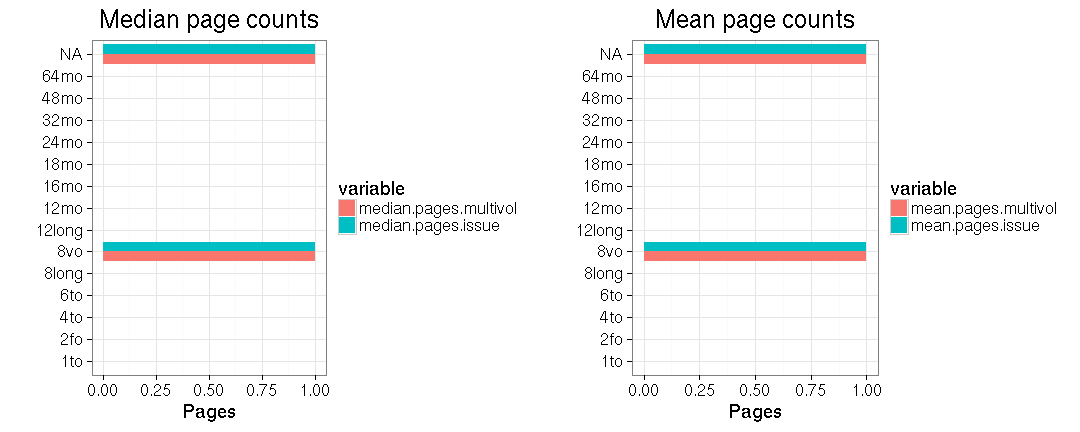
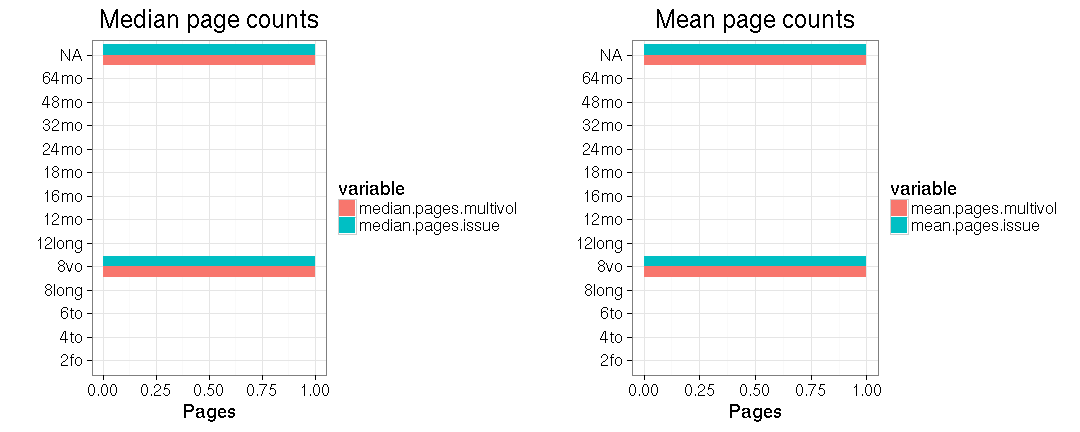
Rmd update

diff --git a/antagomir/pagecount.md b/antagomir/pagecount.md
@@ -1,7 +1,7 @@
 ---
 title: "Pagecount preprocessing summary"
 author: "Lahti, Marjanen, Roivainen, Tolonen"
-date: "2016-06-28"
+date: "2016-06-29"
 output: markdown_document
 ---
 
@@ -12,7 +12,7 @@ output: markdown_document
 
   * Page count missing and estimated for 2031 documents (0.5%).
 
-  * Page count missing and could not be estimated for 147340 documents
+  * Page count missing and could not be estimated for 147340 documents (38.2%).
 
   * Page count updated for 0 documents.
   
@@ -39,8 +39,8 @@ Multi-volume documents average page counts are given per volume.
 
 |doc.dimension |mean.pages.singlevol |median.pages.singlevol | n.singlevol| mean.pages.multivol| median.pages.multivol| n.multivol| mean.pages.issue| median.pages.issue| n.issue|
 |:-------------|:--------------------|:----------------------|-----------:|-------------------:|---------------------:|----------:|----------------:|------------------:|-------:|
-|2fo           |NA                   |NA                     |        1858|                  NA|                    NA|         NA|               NA|                 NA|      94|
-|4to           |NA                   |NA                     |       32051|                  NA|                    NA|         NA|               NA|                 NA|   32064|
+|2fo           |NA                   |NA                     |        1858|                  NA|                    NA|         NA|               NA|                 NA|      NA|
+|4to           |NA                   |NA                     |       32051|                  NA|                    NA|         NA|               NA|                 NA|       7|
 |6to           |NA                   |NA                     |          28|                  NA|                    NA|         NA|               NA|                 NA|       1|
 |8long         |NA                   |NA                     |          14|                  NA|                    NA|         NA|               NA|                 NA|      NA|
 |8vo           |NA                   |NA                     |       25060|                   1|                     1|         95|                1|                  1|      30|
@@ -53,7 +53,6 @@ Multi-volume documents average page counts are given per volume.
 |48mo          |NA                   |NA                     |           7|                  NA|                    NA|         NA|               NA|                 NA|      NA|
 |64mo          |NA                   |NA                     |          35|                  NA|                    NA|         NA|               NA|                 NA|      NA|
 |NA            |NA                   |NA                     |      318072|                   1|                     1|       1941|                1|                  1|    3596|
-|1to           |NA                   |NA                     |          NA|                  NA|                    NA|         NA|               NA|                 NA|    1179|
 
 ![plot of chunk size-pagecountsmulti2](figure/size-size-pagecountsmulti2-1.png)
 

diff --git a/antagomir/dimension.md b/antagomir/dimension.md
@@ -1,7 +1,7 @@
 ---
 title: "Document dimension preprocessing summary"
 author: "Lahti, Marjanen, Roivainen, Tolonen"
-date: "2016-06-28"
+date: "2016-06-29"
 output: markdown_document
 ---
 

diff --git a/antagomir/publicationplace.md b/antagomir/publicationplace.md
@@ -1,7 +1,7 @@
 ---
 title: "Publication place preprocessing summary"
 author: "Lahti, Marjanen, Roivainen, Tolonen"
-date: "2016-06-28"
+date: "2016-06-29"
 output: markdown_document
 ---
 

diff --git a/antagomir/publisher.md b/antagomir/publisher.md
@@ -1,7 +1,7 @@
 ---
 title: "Publisher preprocessing summary"
 author: "Lahti, Marjanen, Roivainen, Tolonen"
-date: "2016-06-28"
+date: "2016-06-29"
 output: markdown_document
 ---
 

diff --git a/antagomir/size.md b/antagomir/size.md
@@ -1,7 +1,7 @@
 ---
 title: "Document dimension size summary"
 author: "Lahti, Marjanen, Roivainen, Tolonen"
-date: "2016-06-28"
+date: "2016-06-29"
 output: markdown_document
 ---
 

diff --git a/antagomir/gender.md b/antagomir/gender.md
@@ -1,7 +1,7 @@
 ---
 title: "Gender preprocessing overview"
 author: "Lahti, Marjanen, Roivainen, Tolonen"
-date: "2016-06-28"
+date: "2016-06-29"
 output: markdown_document
 ---
 

diff --git a/antagomir/author.md b/antagomir/author.md
@@ -1,7 +1,7 @@
 ---
 title: "Author preprocessing summary"
 author: "Lahti, Marjanen, Roivainen, Tolonen"
-date: "2016-06-28"
+date: "2016-06-29"
 output: markdown_document
 ---
 

diff --git a/antagomir/overview.md b/antagomir/overview.md
@@ -1,7 +1,7 @@
 ---
 title: "Preprocessing overview"
 author: "Lahti, Marjanen, Roivainen, Tolonen"
-date: "2016-06-28"
+date: "2016-06-29"
 output: markdown_document
 ---
 

diff --git a/antagomir/topic.md b/antagomir/topic.md
@@ -1,7 +1,7 @@
 ---
 title: "Subject topic preprocessing summaries"
 author: "Leo Lahti"
-date: "2016-06-28"
+date: "2016-06-29"
 output: markdown_document
 ---
 

diff --git a/antagomir/publicationyear.md b/antagomir/publicationyear.md
@@ -1,7 +1,7 @@
 ---
 title: "Publication year summaries"
 author: "Leo Lahti"
-date: "2016-06-28"
+date: "2016-06-29"
 output: markdown_document
 ---
 

diff --git a/antagomir/language.md b/antagomir/language.md
@@ -1,7 +1,7 @@
 ---
 title: "Language summaries"
 author: "Leo Lahti"
-date: "2016-06-28"
+date: "2016-06-29"
 output: markdown_document
 ---
 

diff --git a/antagomir/title.md b/antagomir/title.md
@@ -1,7 +1,7 @@
 ---
 title: "Title summaries"
 author: "Leo Lahti"
-date: "2016-06-28"
+date: "2016-06-29"
 output: markdown_document
 ---
 
